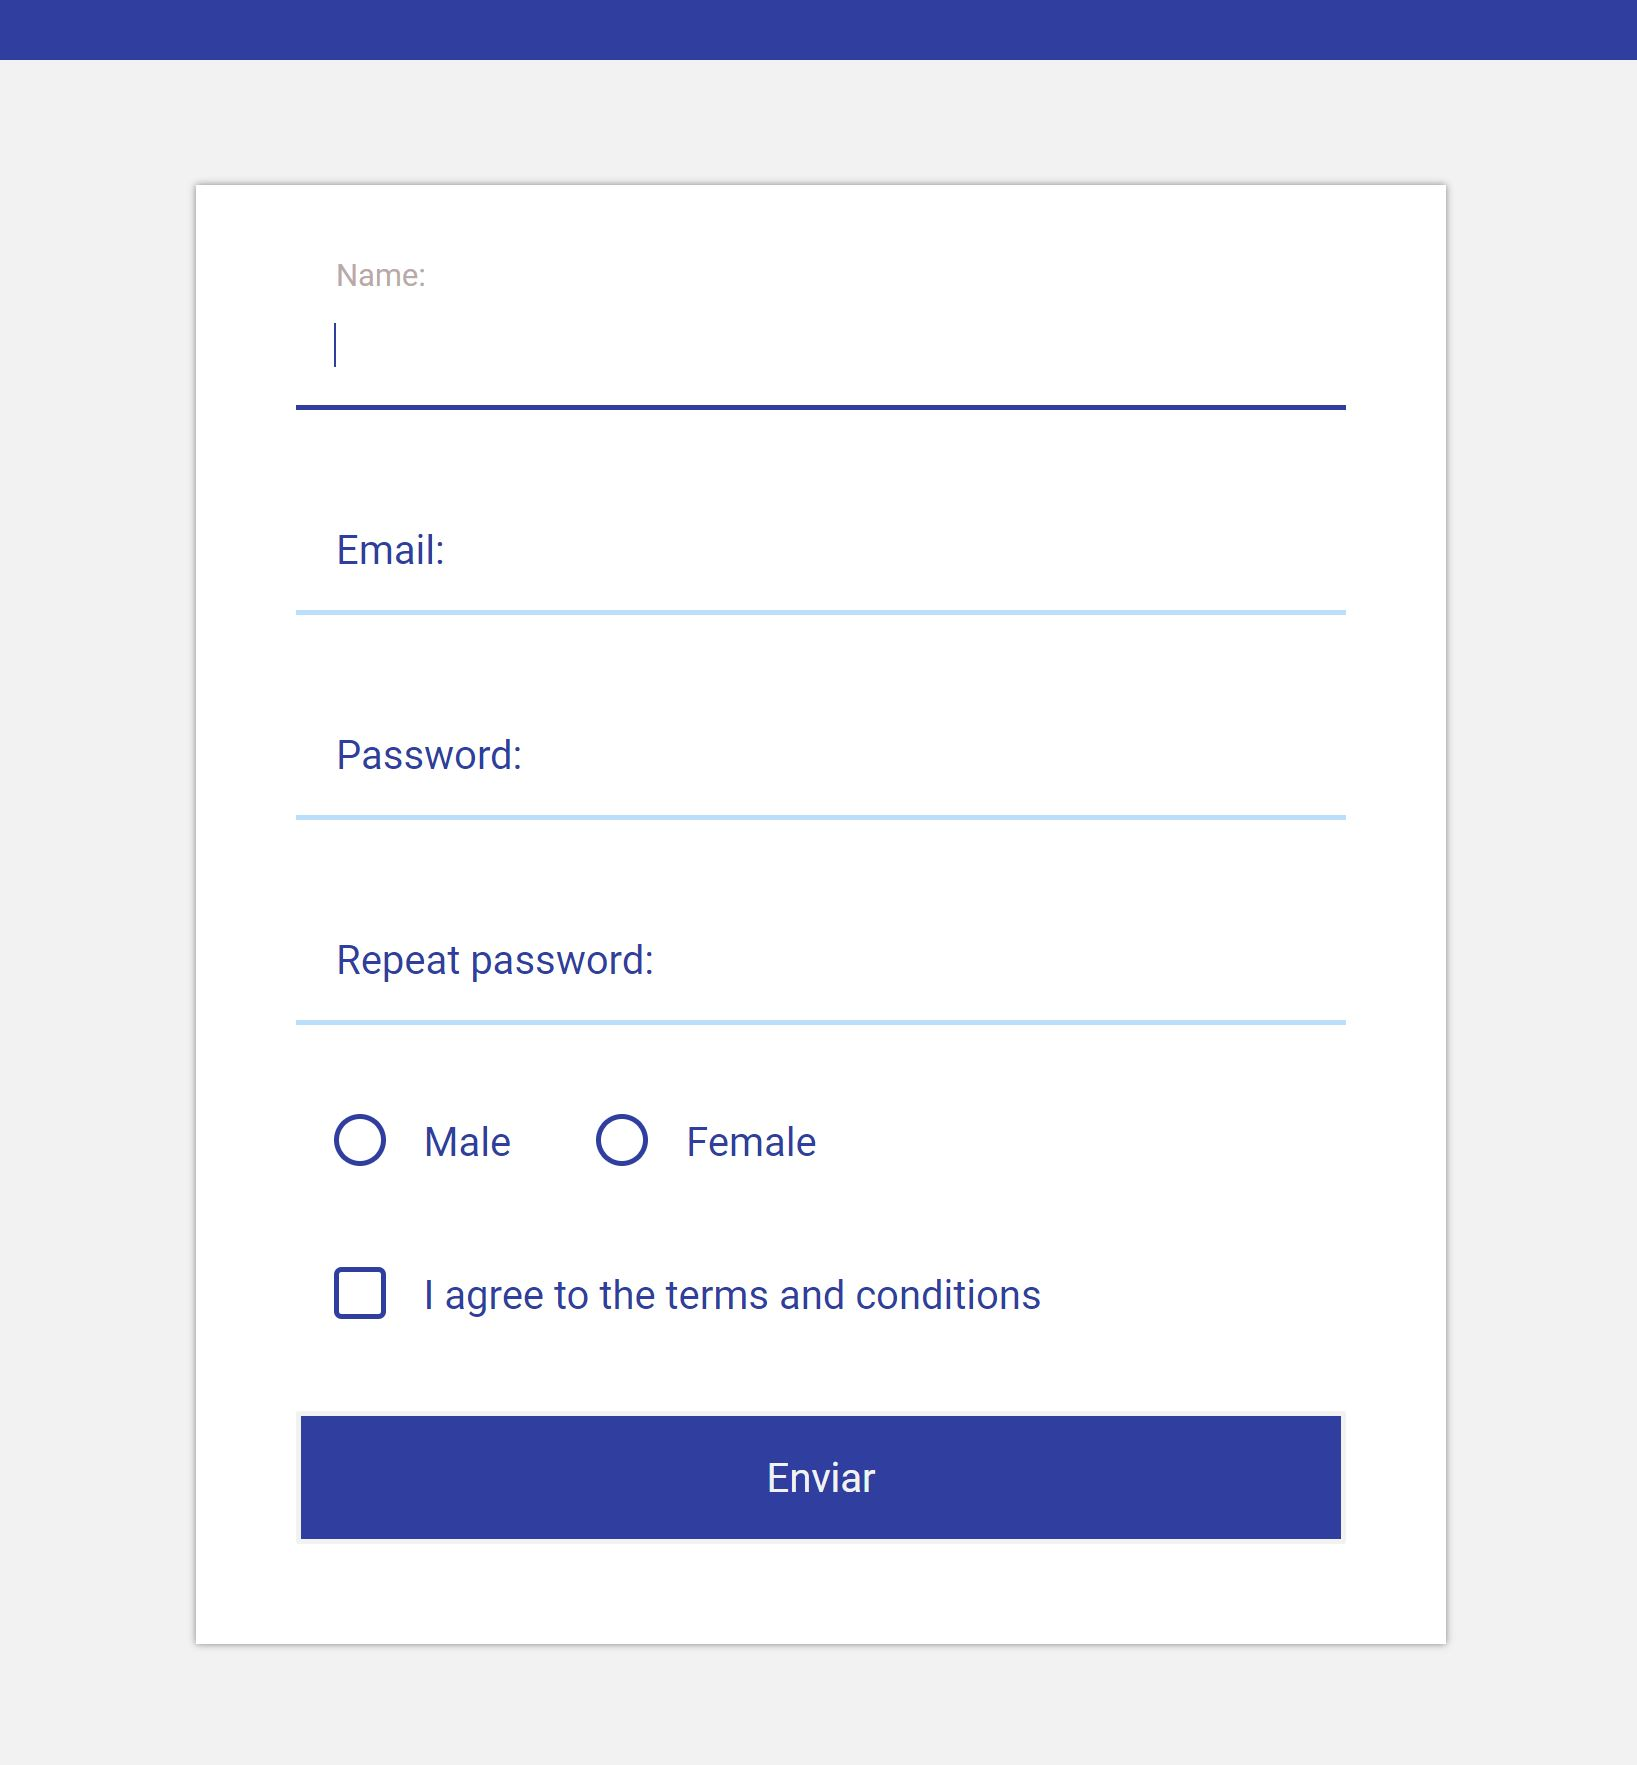
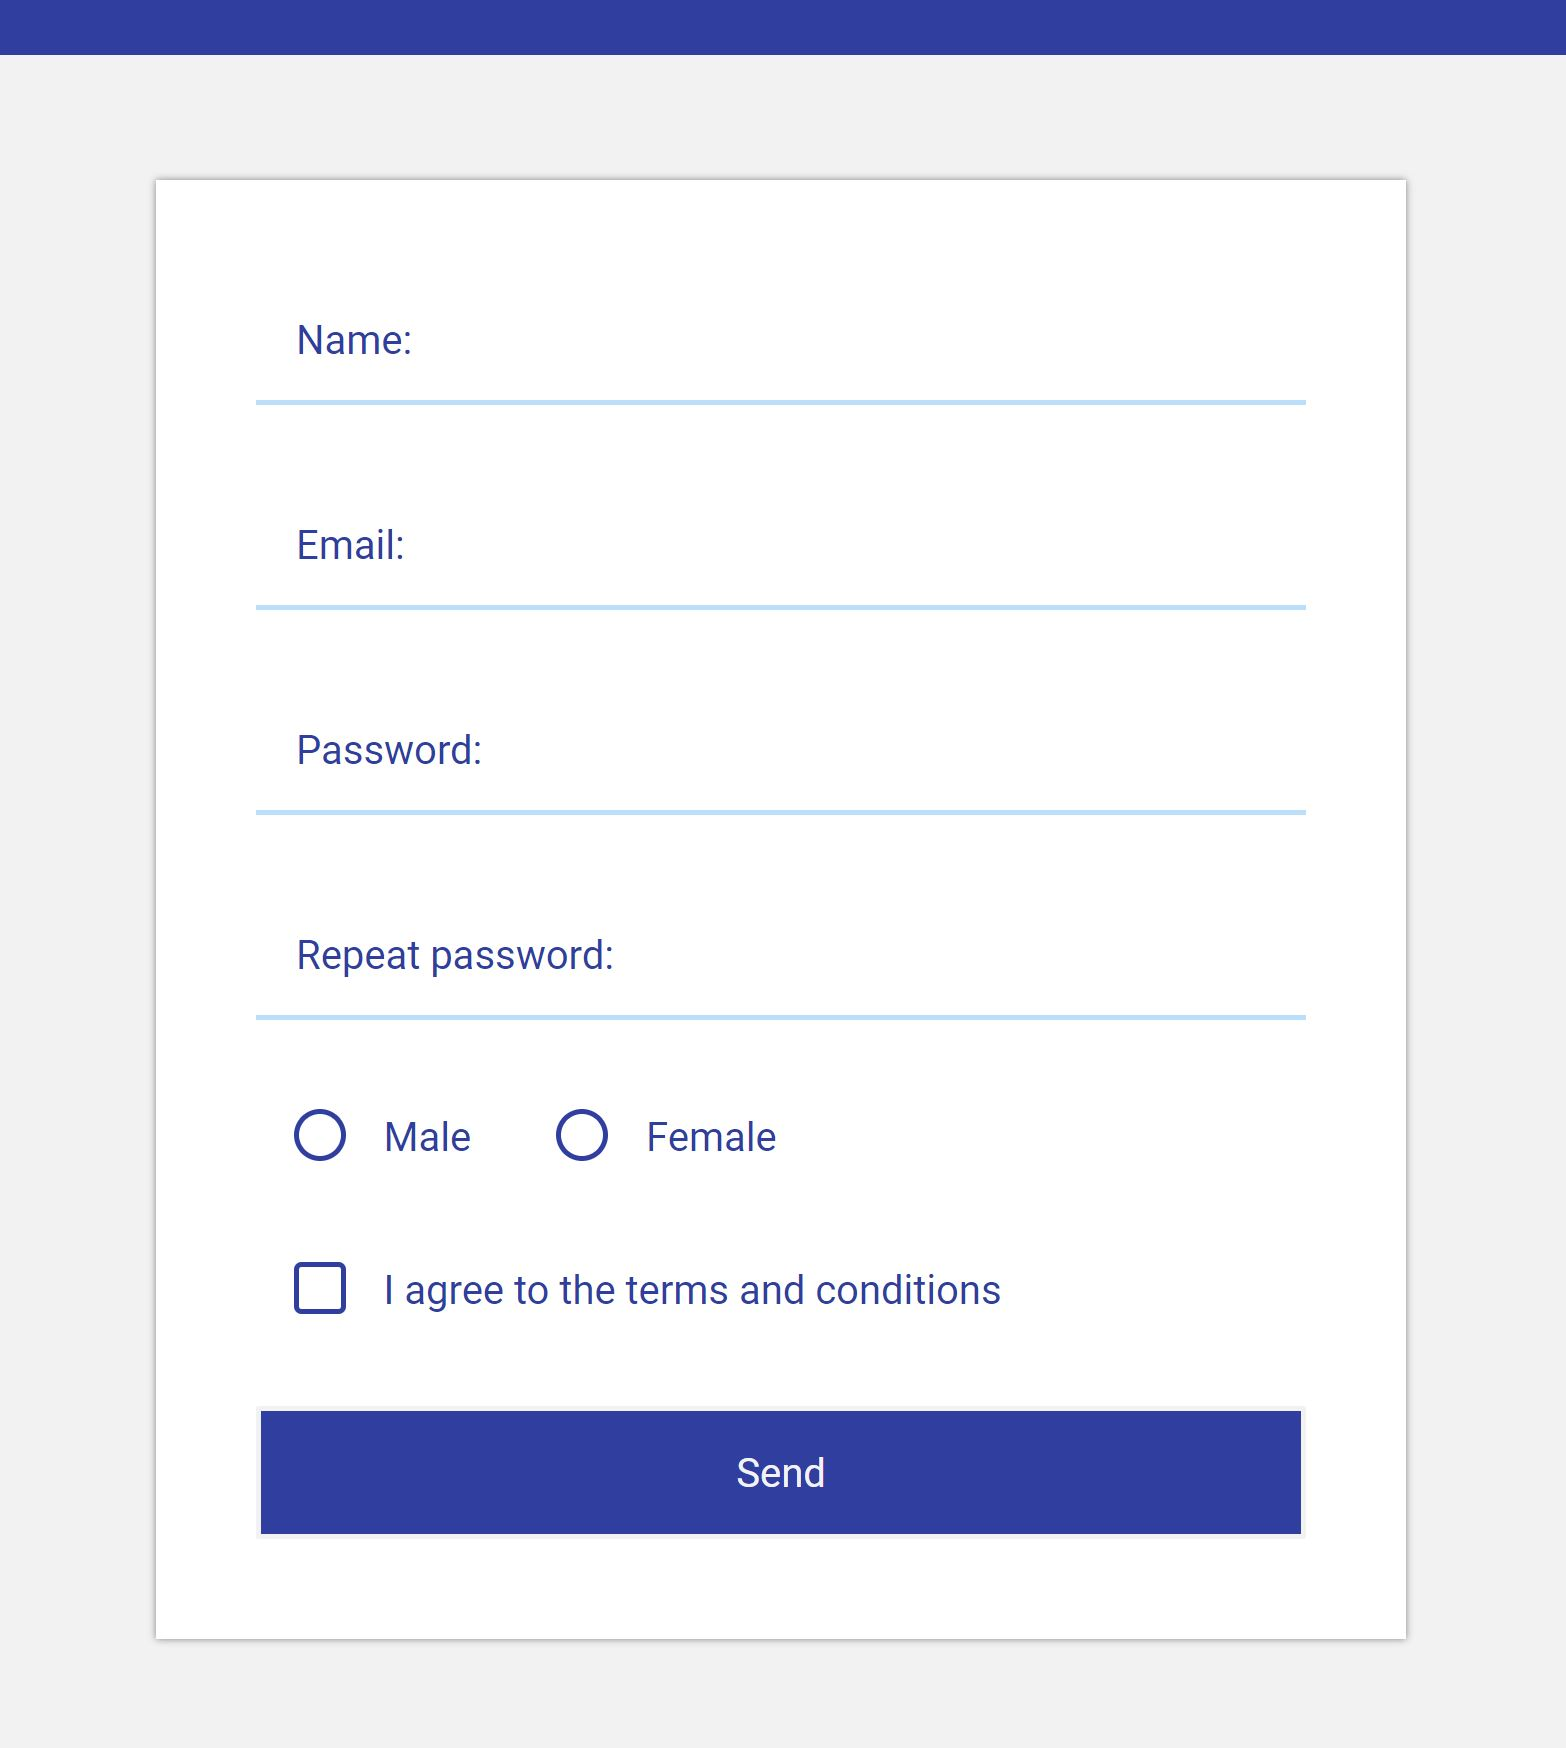
form

diff --git a/index.html b/index.html
@@ -42,7 +42,7 @@
                         <label for="terms">I agree to the terms and conditions</label>
                     </div>
 
-                    <input type="submit" id="btn-submit">
+                    <input type="submit" id="btn-submit" value="Send"></input>
                 </div>
             </form>
         </div>
